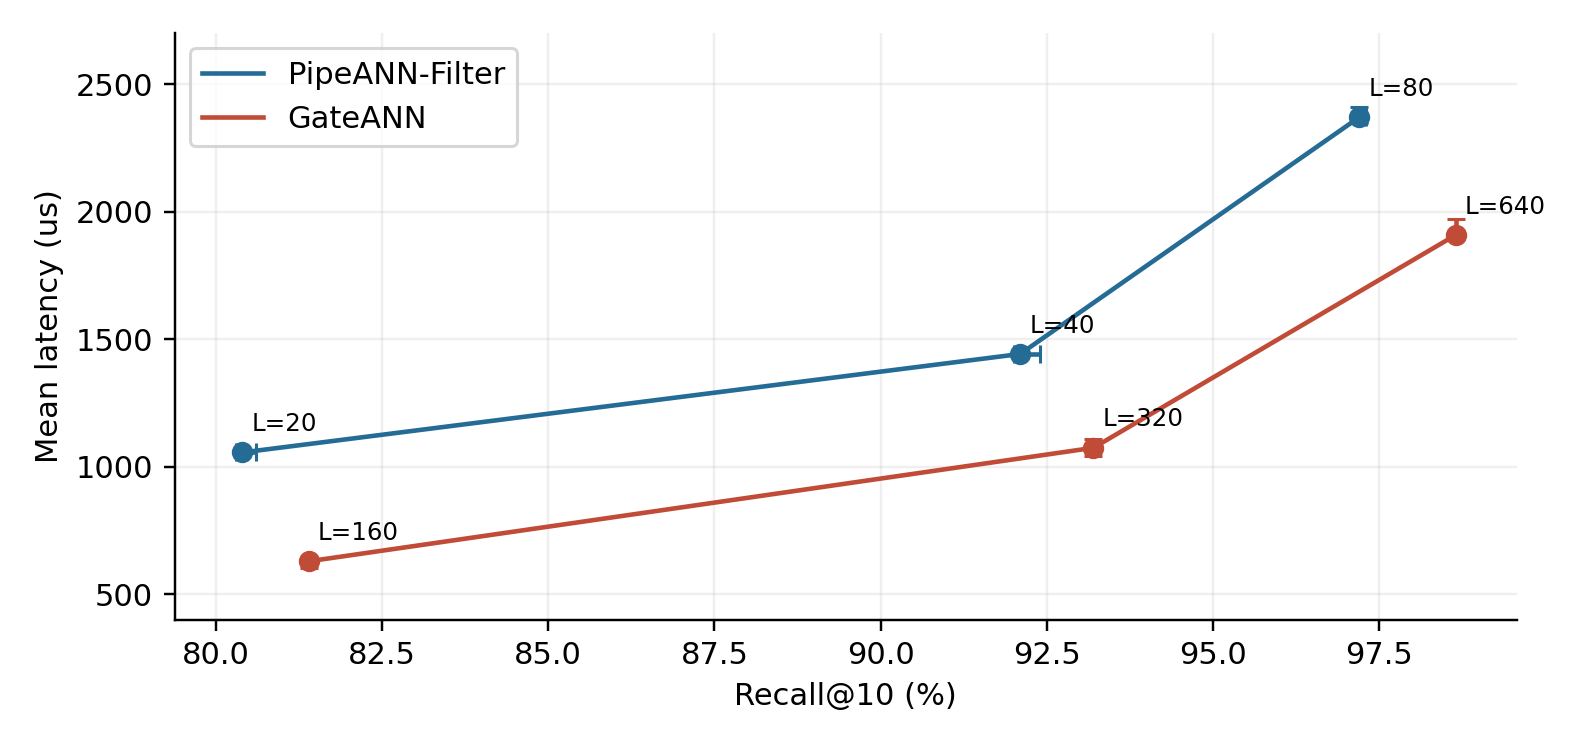
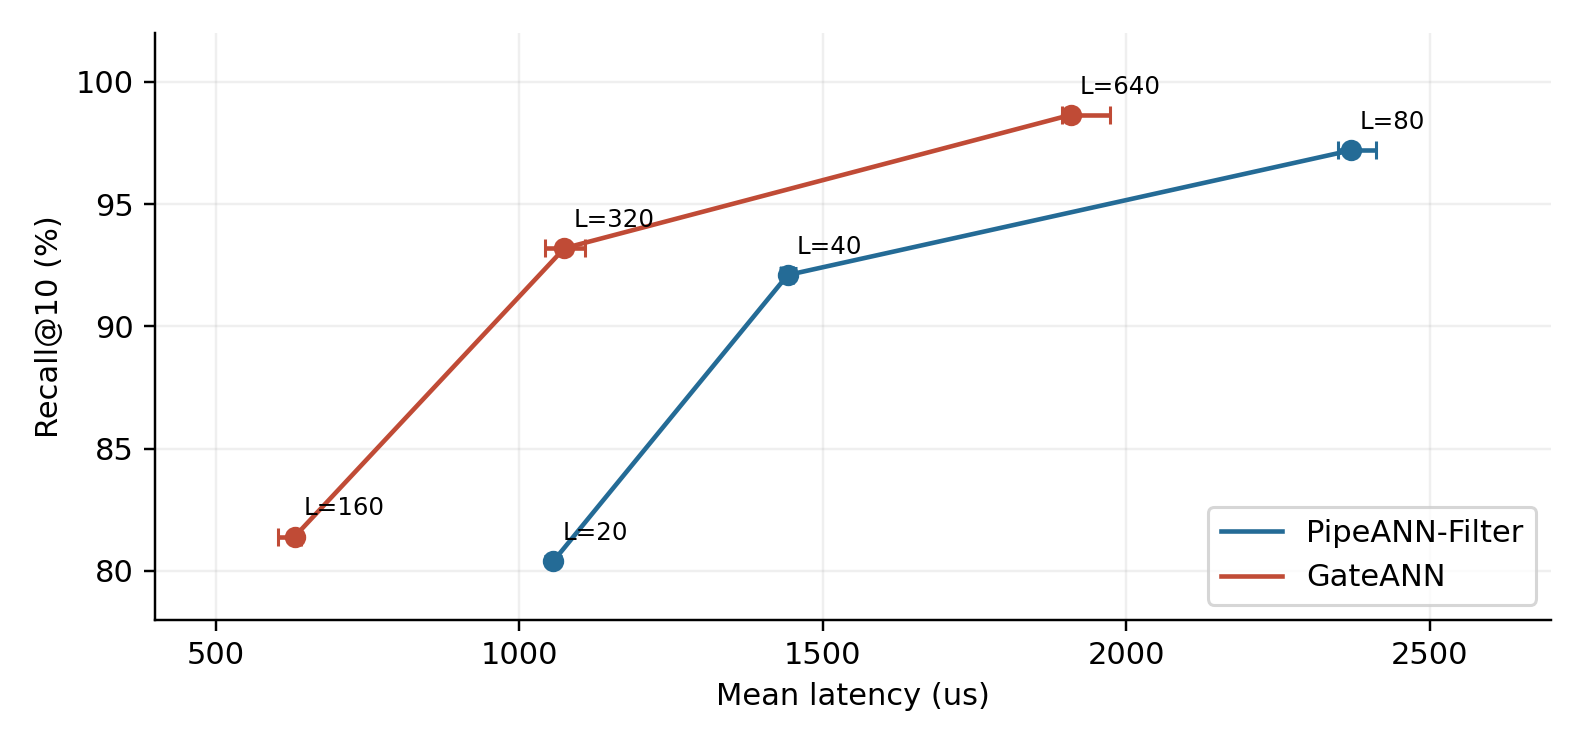
Align recall-latency axes with course analysis requirements

diff --git a/analyze_study.py b/analyze_study.py
@@ -28,11 +28,11 @@ fig,ax=plt.subplots(figsize=(7.2,3.4))
 for system,label in [('pipeann','PipeANN-Filter'),('gateann','GateANN')]:
     data=df[(df.system==system)&(df.bucket=='high')]
     med=data.groupby('L')[['recall_percent','mean_latency_us']].median()
-    ax.plot(med.recall_percent,med.mean_latency_us,color=colors[system],label=label)
+    ax.plot(med.mean_latency_us,med.recall_percent,color=colors[system],label=label)
     for L,rows in data.groupby('L'):
-        point(ax,rows,'recall_percent','mean_latency_us',colors[system])
-        ax.annotate(f'L={L}',(rows.recall_percent.median(),rows.mean_latency_us.median()),xytext=(3,7),textcoords='offset points',fontsize=8)
-ax.set(xlabel='Recall@10 (%)',ylabel='Mean latency (us)',ylim=(400,2700)); ax.legend(); ax.grid(alpha=.2)
+        point(ax,rows,'mean_latency_us','recall_percent',colors[system])
+        ax.annotate(f'L={L}',(rows.mean_latency_us.median(),rows.recall_percent.median()),xytext=(3,7),textcoords='offset points',fontsize=8)
+ax.set(xlabel='Mean latency (us)',ylabel='Recall@10 (%)',xlim=(400,2700),ylim=(78,102)); ax.legend(loc='lower right'); ax.grid(alpha=.2)
 fig.tight_layout(); fig.savefig(OUT/'figure1.png',dpi=220); plt.close(fig)
 fig,axes=plt.subplots(1,3,figsize=(9,3.0))
 for ax,metric,label in zip(axes,['recall_percent','mean_latency_us','mean_ios'],['Recall@10 (%)','Mean latency (us)','Logical I/O / query']):
